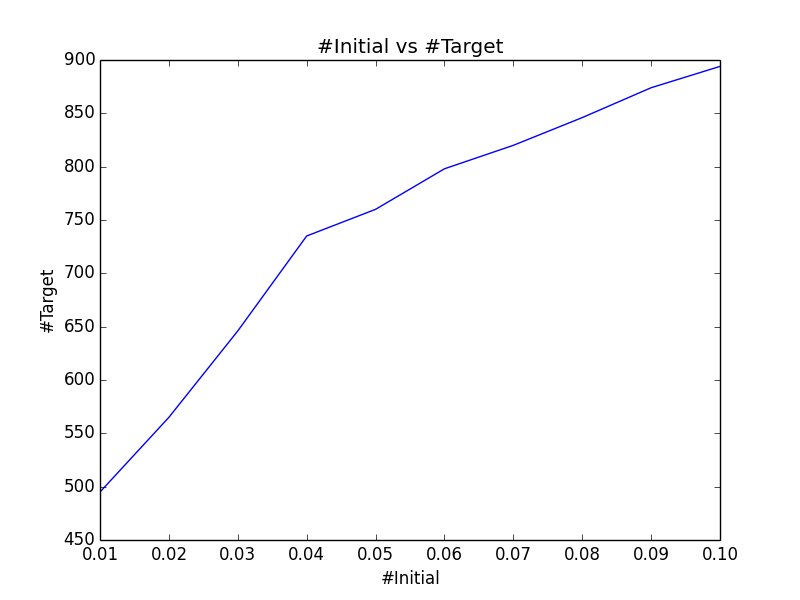
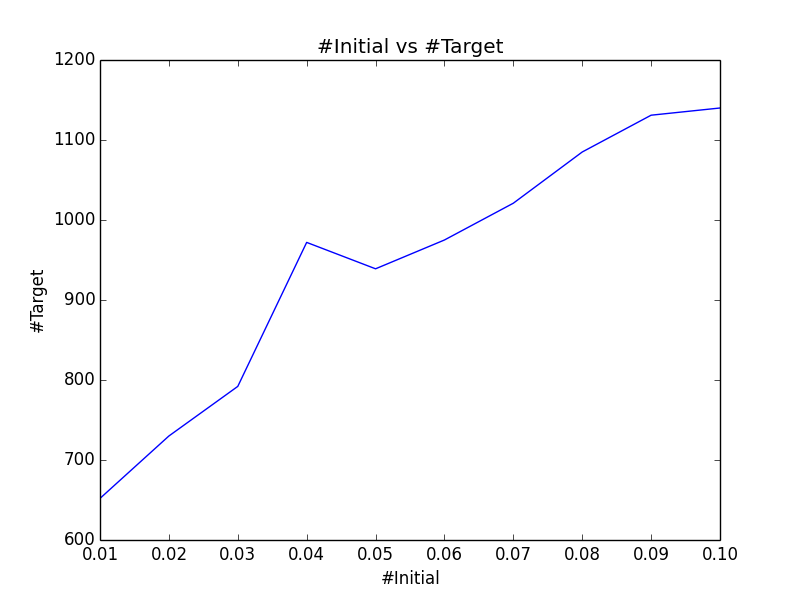
Fix

diff --git a/hw2/q5.py b/hw2/q5.py
@@ -33,7 +33,7 @@ for gui in gui_env:
 
 
 def run(hw_name, seed_func):
-    E = data.load_actor_movie_weighted()[:5000]
+    E = data.load_actor_movie_weighted()[:6000]
     # E = np.array([[1, 2], [2, 3], [3, 6], [6, 1], [7, 1]]) # for test
     report = []
     # calculate measures
@@ -46,7 +46,7 @@ def run(hw_name, seed_func):
     # y axis targeted set count
     target_counts = []
     # we calculate average activated set size
-    iterations = 5  # number of iterations
+    iterations = 100  # number of iterations
     for percent in seed_percent:
             seed_size = int(percent*num_nodes)
             report += ["Find seed set for %d percent of graph(%d nodes)" % (
